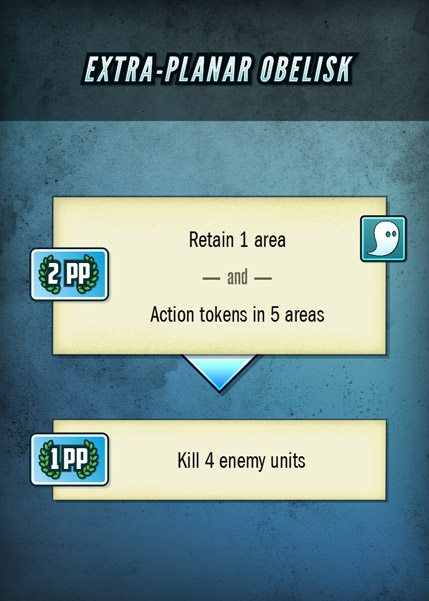
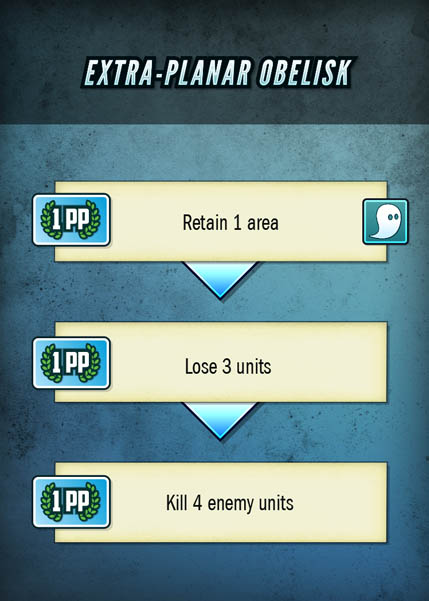
GHOSTS: minor plan tweaks

diff --git a/server/classes/factions/plans/ghostsPlans.js b/server/classes/factions/plans/ghostsPlans.js
@@ -95,9 +95,14 @@ let obj = [
             {
                 requirements : [
                     { test : 'retainAreas', args : [1] },
-                    { test : 'tokensInAreas', args : [5] },
                 ],
-                value : 2
+                value : 1
+            },
+            {
+                requirements : [
+                    { test : 'loseUnits', args : [3] },
+                ],
+                value : 1
             },
             {
                 requirements : [
@@ -140,7 +145,7 @@ let obj = [
             },
             {
                 requirements : [
-                    { test : 'loseUnits', args : [3] },
+                    { test : 'tokensInAreas', args : [5] },
                 ],
                 value : 1
             },
